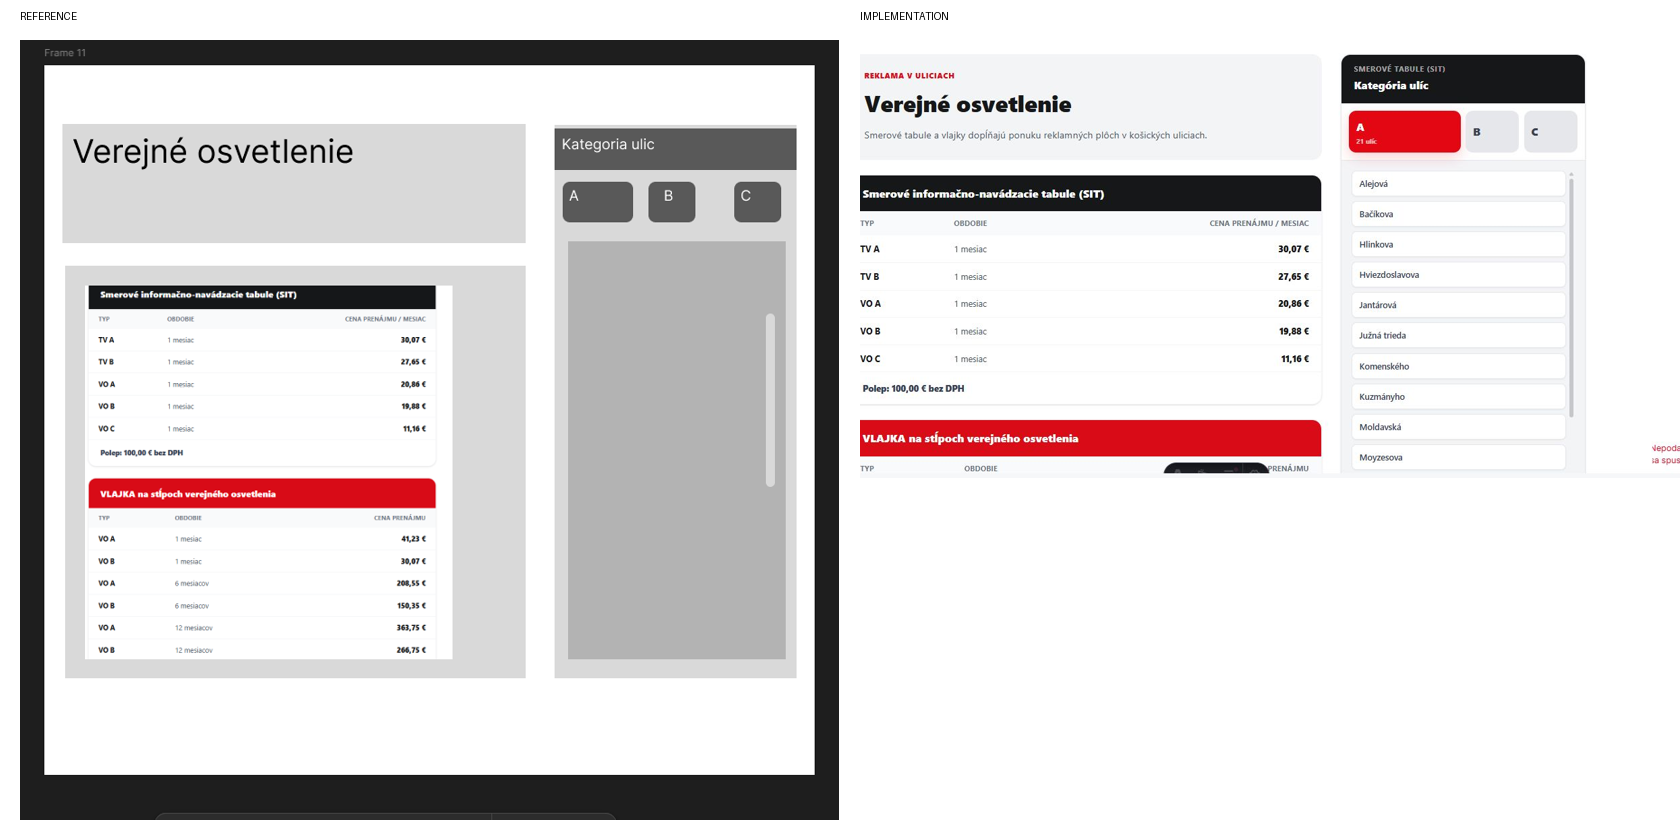
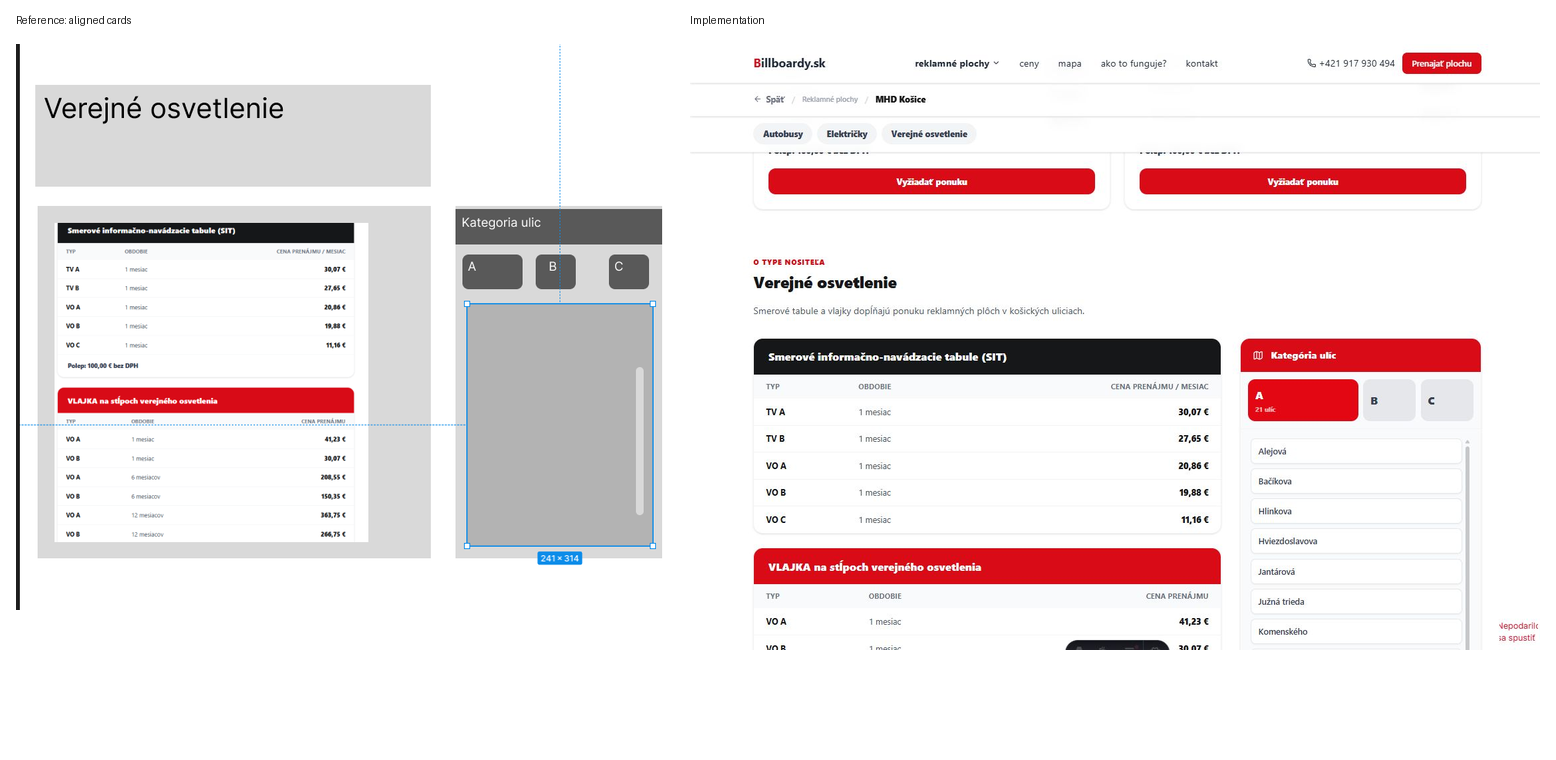
Align MHD lighting cards with type pages

diff --git a/docs/frontend.md b/docs/frontend.md
@@ -56,7 +56,7 @@ Footer содержит ссылки на словацкие kraje вместо 
 
 `mhdAdvertising.ts` хранит недисконтированные официальные исходные цены DPMK на 2026 год. Для отображения применяется `discountPrice(sourcePrice)`: 97% от исходной цены с округлением до центов. Все показанные цены указаны без 23% DPH; временный polep в карточках автобусов и электричек стоит 100 € без DPH. В таблицах SIT/VLAJKA эта строка не отображается.
 
-Блок `Verejné osvetlenie` построен в две колонки: слева находятся заголовок и таблицы SIT/VLAJKA, справа — интерактивная панель официальной категоризации улиц DPMK. Табы A, B и C переключают прокручиваемые списки; активный таб расширяется, а два неактивных остаются узкими. На мобильных устройствах панель переносится под таблицы.
+В блоке `Verejné osvetlenie` заголовок и вводный текст вынесены отдельно над контентом. Ниже в две колонки выровнены таблицы SIT/VLAJKA и интерактивная карточка официальной категоризации улиц DPMK со стандартным красным заголовком. Табы A, B и C переключают прокручиваемые списки; активный таб расширяется, два неактивных остаются узкими, а при наведении используется такой же нейтральный `shadow-md`, как у карточек форматов. На мобильных устройствах панель переносится под таблицы.
 
 Временные локальные assets страницы лежат в `public/assets/mhd-kosice/`: это схемы транспортных средств, производные от PDF, а также связанные локальные изображения. `ATTRIBUTION.md` фиксирует источники Wikimedia для hero с košickým трамваем и DPMK для материалов страницы.
 

diff --git a/docs/design-qa/mhd-street-tabs/design-qa.md b/docs/design-qa/mhd-street-tabs/design-qa.md
@@ -1,0 +1,26 @@
+# Design QA: Verejné osvetlenie
+
+## Sources of visual truth
+
+- `aligned-layout-reference.png` — požadované rozloženie so samostatným nadpisom a zarovnanými kartami.
+- `type-heading-card-reference.png` — typografia nadpisu a štandardná karta s farebným záhlavím.
+- `format-hover-reference.png` — neutrálny hover tieň kariet formátov.
+- `reference.png` — pôvodný návrh dvojstĺpcového bloku.
+
+## Verified implementation
+
+- Nadpis a úvodný text sú samostatne nad dvojstĺpcovým obsahom.
+- Prvá cenová tabuľka a karta `Kategória ulíc` majú na desktope rovnakú hornú hranu (nameraný rozdiel `0 px`).
+- Karta kategórií používa červené záhlavie, biele telo a jemný neutrálny tieň podľa kariet technických parametrov.
+- Aktívny tab sa rozšíri na pomer `2.5 : 1 : 1`; neaktívne taby zostávajú užšie.
+- Hover používa neutrálny `shadow-md`; pôvodný červený tieň bol odstránený a focus ring je sivý.
+- Zoznamy A, B a C zostávajú rolovateľné a ovládateľné myšou aj klávesnicou.
+
+## Comparison
+
+- `implementation.png` — aktuálny výrez lokálnej stránky.
+- `comparison.png` — referenčný návrh a implementácia vedľa seba.
+
+## Result
+
+`passed` — bez otvorených P0, P1 alebo P2 vizuálnych problémov.
